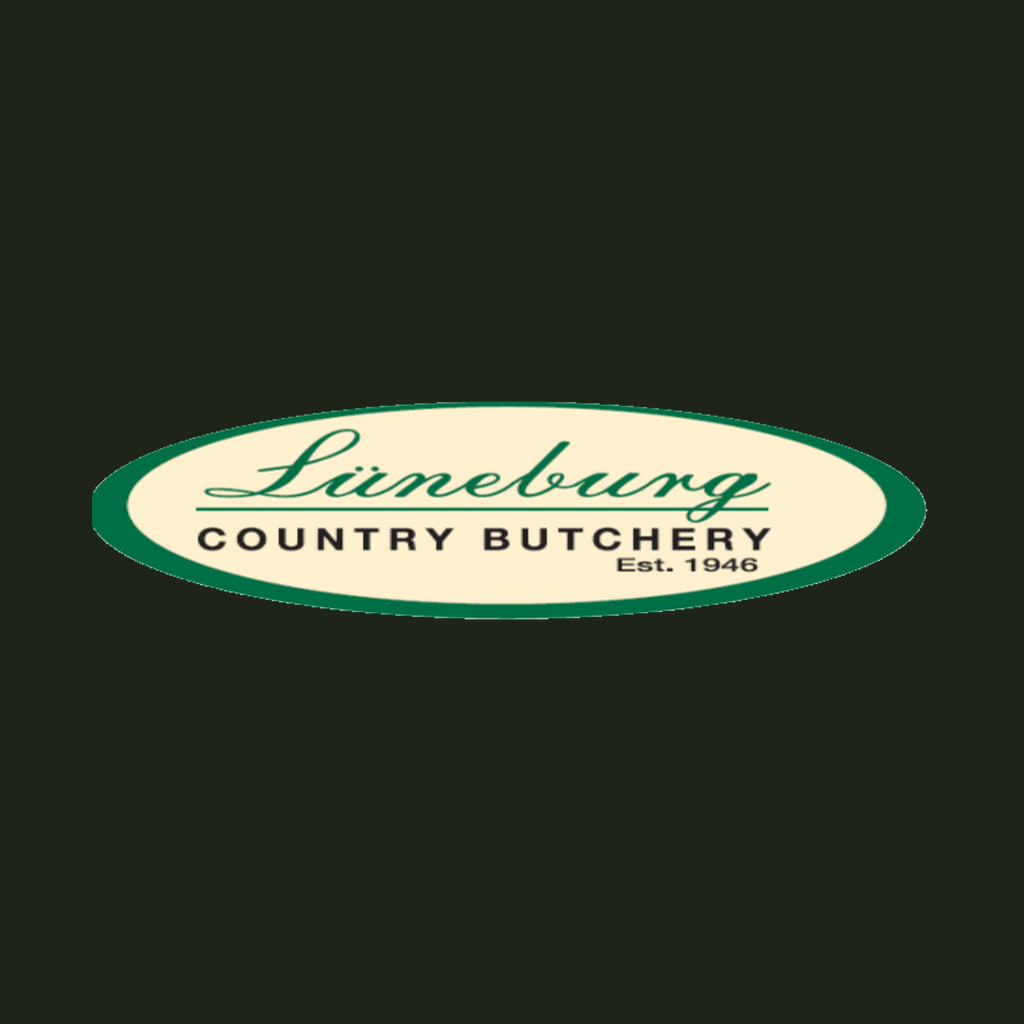
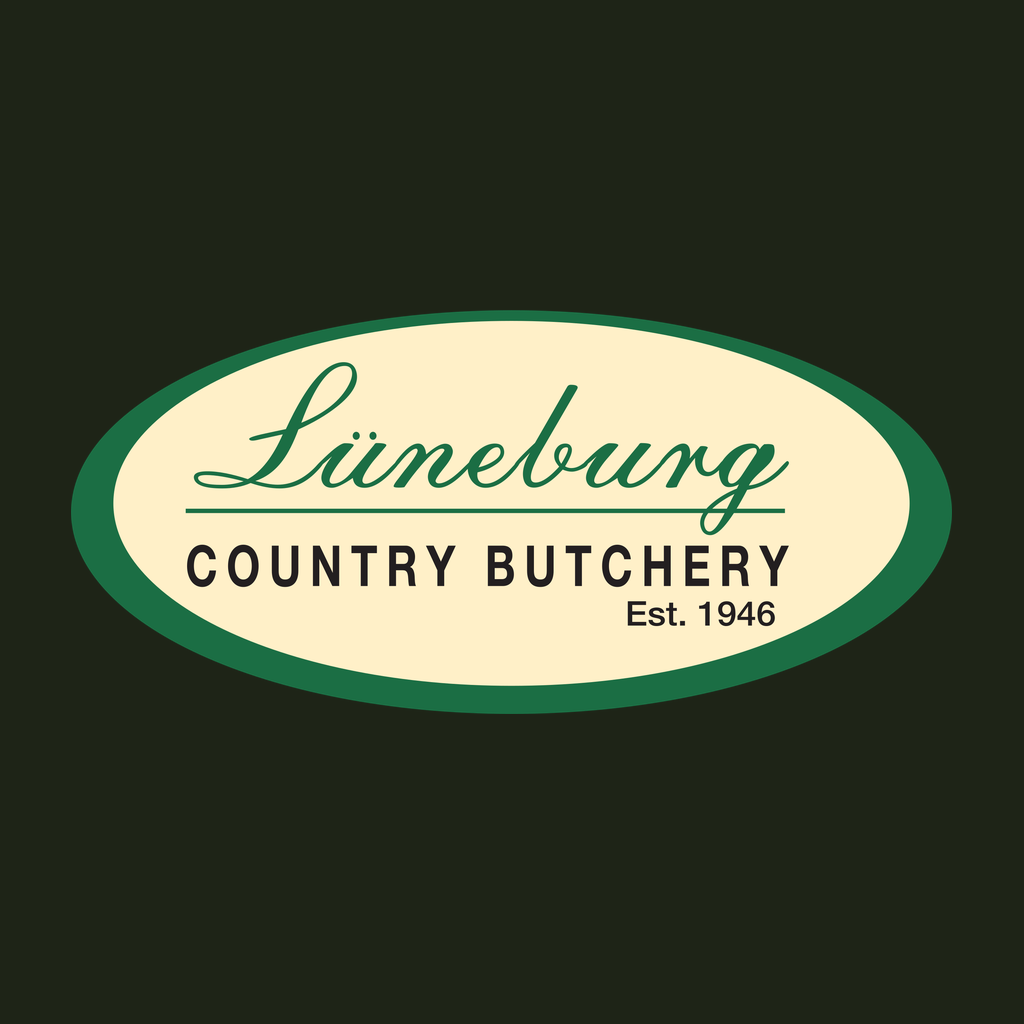
Render the official oval from the vector source.
The previous PNG was a squashed 692×183 mark. The hero, icon, splash, and favicons now come from logo-official.svg at the true 2.18:1 ratio.

Changed region(s): [[0.0625, 0.2812, 0.9375, 0.7188]]

diff --git a/src/components/BrandLogo.tsx b/src/components/BrandLogo.tsx
@@ -3,8 +3,8 @@ import { Image, StyleSheet, View } from 'react-native';
 
 const LOGO = require('../../assets/brand/logo.png');
 
-/** Width / height of assets/brand/logo.png (official cream oval, 692×183). */
-const ASPECT = 692 / 183;
+/** Width / height of assets/brand/logo.png (official oval, 2512×1153, about 2.18:1). */
+const ASPECT = 2512 / 1153;
 
 type Props = {
   size?: 'splash' | 'hero' | 'compact';

diff --git a/docs/TESTFLIGHT.md b/docs/TESTFLIGHT.md
@@ -109,7 +109,7 @@ Privacy: location when-in-use only for nearest POP; notifications stubbed pendin
 
 ## Icon & splash
 
-Splash, the home hero, and the app icon use the official cream oval (`assets/brand/logo.png`) on `#1E2417`. `icon.png` is that oval centred on the same green. The Android adaptive icon uses `backgroundColor` `#1E2417` with the oval at about 62% of the canvas so launcher masks do not crop it. The gold 80 Years label stays at `assets/brand/label-80-years.png`.
+Splash, the home hero, and the app icon use the official oval from `assets/brand/logo-official.svg`, rendered as `assets/brand/logo.png`, on `#1E2417`. `icon.png` is that oval centred on the same green at about 86% of the canvas. The Android adaptive icon uses `backgroundColor` `#1E2417` with the oval at about 62% of the canvas so launcher masks do not crop it. The gold 80 Years label stays at `assets/brand/label-80-years.png`.
 
 ## Related
 
